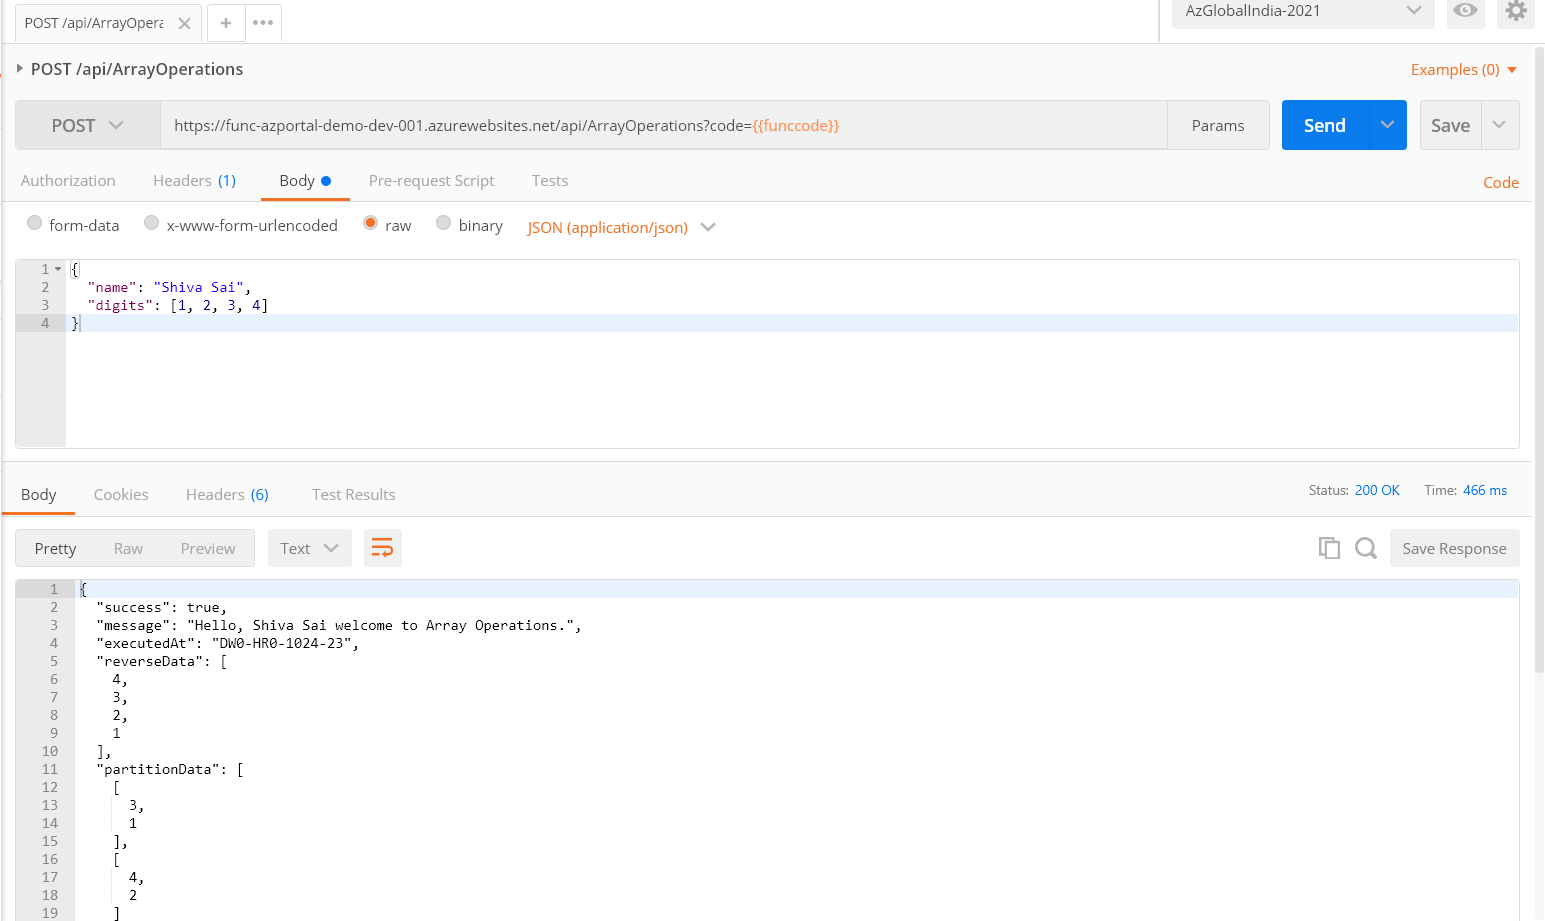
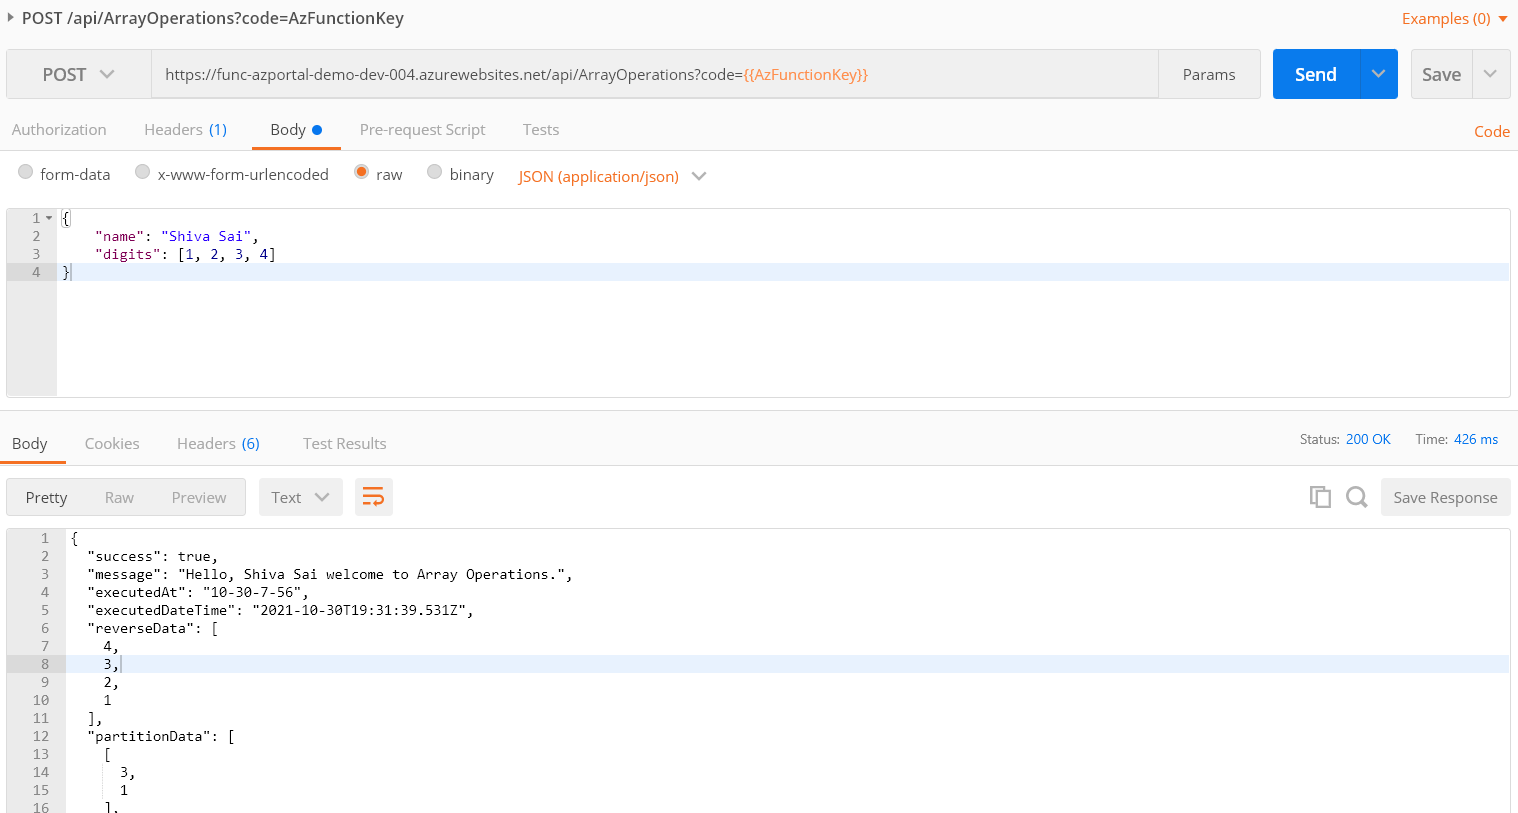
Today's work

diff --git a/AzConf/31Oct2021_AzureFunctionsWorkShop/README.md b/AzConf/31Oct2021_AzureFunctionsWorkShop/README.md
@@ -8,7 +8,7 @@
 
 ## Pre-Requisites
 
-> 1. .NET SDK
+> 1. .NET 6 SDK
 > 1. Azure Function Core Tools
 > 1. Azure CLI
 > 1. Azure Functions VS Code Extension
@@ -53,8 +53,10 @@
 > 1. Deploying the code to Azure
 > 1. Monitoring Azure Functions with Application Insights
 
-## Two Mini Projects
+## One Hello World, One Warm up Project and Two Mini Projects
 
+> 1. Hello World Project - Http, Timer, and Queue `Trigger` with Blob, and Queue `Input/Output Bindings`
+> 1. Warm Up Project - Http Trigger - NodeJS - `ArrayOperations`
 > 1. Mini Project 1 - GitHub Code Change Tracker
 > 1. Mini Project 2 - Simple App with Azure Function & Blazor
 
@@ -63,12 +65,6 @@
 ![Information | 100x100](./Documentation/Images/SeatBelt.PNG)
 
 ---
-
-## Resource in Azure
-
-func-azportal-demo-dev-001
-
-rg-azconf-workshop-prod-001
 
 ## Introduction to Azure Functions
 
@@ -80,6 +76,15 @@ rg-azconf-workshop-prod-001
 > 1. Hosting Models: Consumption Plan, App Service, Premium, Docker Container.
 > 1. Environments: Azure Portal, VS 2019/2022, Azure Function Core tools, VS Code.
 > 1. Security, Identify Provider Integration, Function Chaining, Durable Functions
+
+URLs:
+> 1. https://docs.microsoft.com/en-us/azure/azure-functions/functions-triggers-bindings?tabs=csharp
+
+## Monitoring Azure Functions with Application Insights
+
+**Note:** Hands ON
+
+> 1. It will be ongoing activity throughout the workshop
 
 ## Creating Azure Functions using multiple methods
 
@@ -98,6 +103,7 @@ rg-azconf-workshop-prod-001
 > 1. Creating `Hello World` Azure Function using C#
 > 1. Creating `Hello World` Azure Function using Node JS
 
+
 ## Execute Azure Functions with triggers [Http, Timer and Queue]
 
 **Note:** Hands ON
@@ -114,28 +120,15 @@ rg-azconf-workshop-prod-001
 > 1. Adding Blob output binding for the Queue Trigger. It has Queue as Input binding
 > 1. Adding Queue output binding for the Timer Trigger
 
-Mini Project 1 - GitHub Code Change Tracker
-Deploying Azure Functions using Azure CLI
+## Warm up Project - `ArrayOperations`
 
-APIs using Azure Functions in Visual Studio Code in C#
-Retrieve GitHub Code Changes - HTTP Trigger
-Blazor WASM Web App UI to display those changes.
-Deploying the code to Azure
-Mini Project 2 - Simple App with Azure Function & Blazor
-Monitoring Azure Functions with Application Insights
-
----
-
-#### **2. Azure Functions in Portal using Node JS**
+**Note:** Http Trigger | NodeJS | `ArrayOperations`
 
 **Description:**
 
-We will create a Azure Function App named **func-azportal-demo-dev-001** with node runtime. It will have a Http Trigger Azure Function which will accept "name, and data" as part of POST call. We will also add "lodash" package using Kudu Console.
-
-### Consumption Plan
+We will create a Azure Function App named **func-azportal-demo-dev-004** with node runtime. It will have a Http Trigger Azure Function which will accept "name, and data" as part of POST call. We will also add "lodash" package using Kudu Console.
 
 **Steps:**
-
 1. Create a Function App called "func-azportal-demo-dev-001"
 1. Add a Function called **ArrayOperations**
 1. Code and Test Tab
@@ -146,15 +139,42 @@ We will create a Azure Function App named **func-azportal-demo-dev-001** with no
 1. Kudu Console
 1. Testing using Postman (POST)
 
-##### **Images for Reference**
+```
+npm init -y
+npm install lodash
+```
 
-##### **Receiving Http Status Code 400 when we don't send the proper inputs to Azure Function**
+**Note:** Images for Reference
 
-![UI Look and Feel | 100x100](./Documentation/Images/ArrayOperations_Status400.PNG)
+![ArrayOperations Npm Init | 100x100](./Documentation/Images/ArrayOperations_NpmInit.PNG)
 
-##### **Receiving Http Status Code 200 when we send the proper inputs to Azure Function**
+**Receiving Http Status Code 400 when we don't send the proper inputs to Azure Function**
 
-![UI Look and Feel | 100x100](./Documentation/Images/ArrayOperations_Status200.PNG)
+![ArrayOperations Status 400 | 100x100](./Documentation/Images/ArrayOperations_Status400.PNG)
+
+**Receiving Http Status Code 200 when we send the proper inputs to Azure Function**
+
+![ArrayOperations Status 200 | 100x100](./Documentation/Images/ArrayOperations_Status200.PNG)
+
+
+## Mini Project 1 - `GitHub Code Change Tracker`
+**Note:** 
+> 1. Hands ON
+> 1. Using Azure Function Core Tools
+> 1. Using Azure Functions VS Code Extension
+
+## Deploying Azure Functions using Azure CLI
+
+
+## Mini Project 2 - `Simple App with Azure Function & Blazor`
+
+APIs using Azure Functions in Visual Studio Code in C#
+Retrieve GitHub Code Changes - HTTP Trigger
+Blazor WASM Web App UI to display those changes.
+Deploying the code to Azure
+
+---
+
 
 ---
 
@@ -274,3 +294,9 @@ rg-globalaz2021-india-prod-001
 -   Storage Account
 -   Application Insights
 -   App Service Plan
+
+## Resource in Azure
+
+func-azportal-demo-dev-001
+
+rg-azconf-workshop-prod-001
